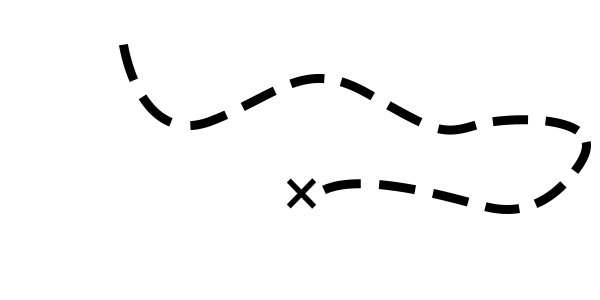
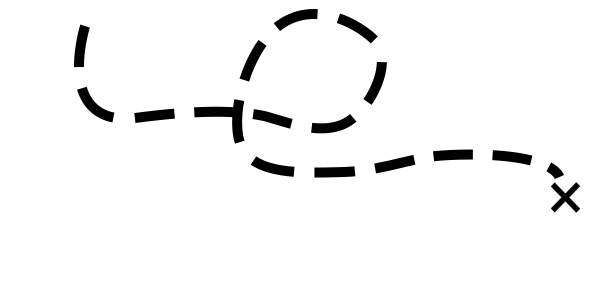
changed salt lake line

diff --git a/client/src/App/components/adventure_log/SaltLake.tsx b/client/src/App/components/adventure_log/SaltLake.tsx
@@ -33,7 +33,7 @@ const Container = styled.div`
     justify-content: center;
     position: relative; 
     margin-top: 45px;
-    margin-bottom: 145px;
+    margin-bottom: 155px;
 `
 
 const StyledParagraph = styled.p`
@@ -53,6 +53,6 @@ const StyledParagraph2 = styled.p`
 `
 const StyledLine = styled.img`
     position: absolute;
-    top: 110%;
+    top: 117%;
     z-index: 1;
 `
